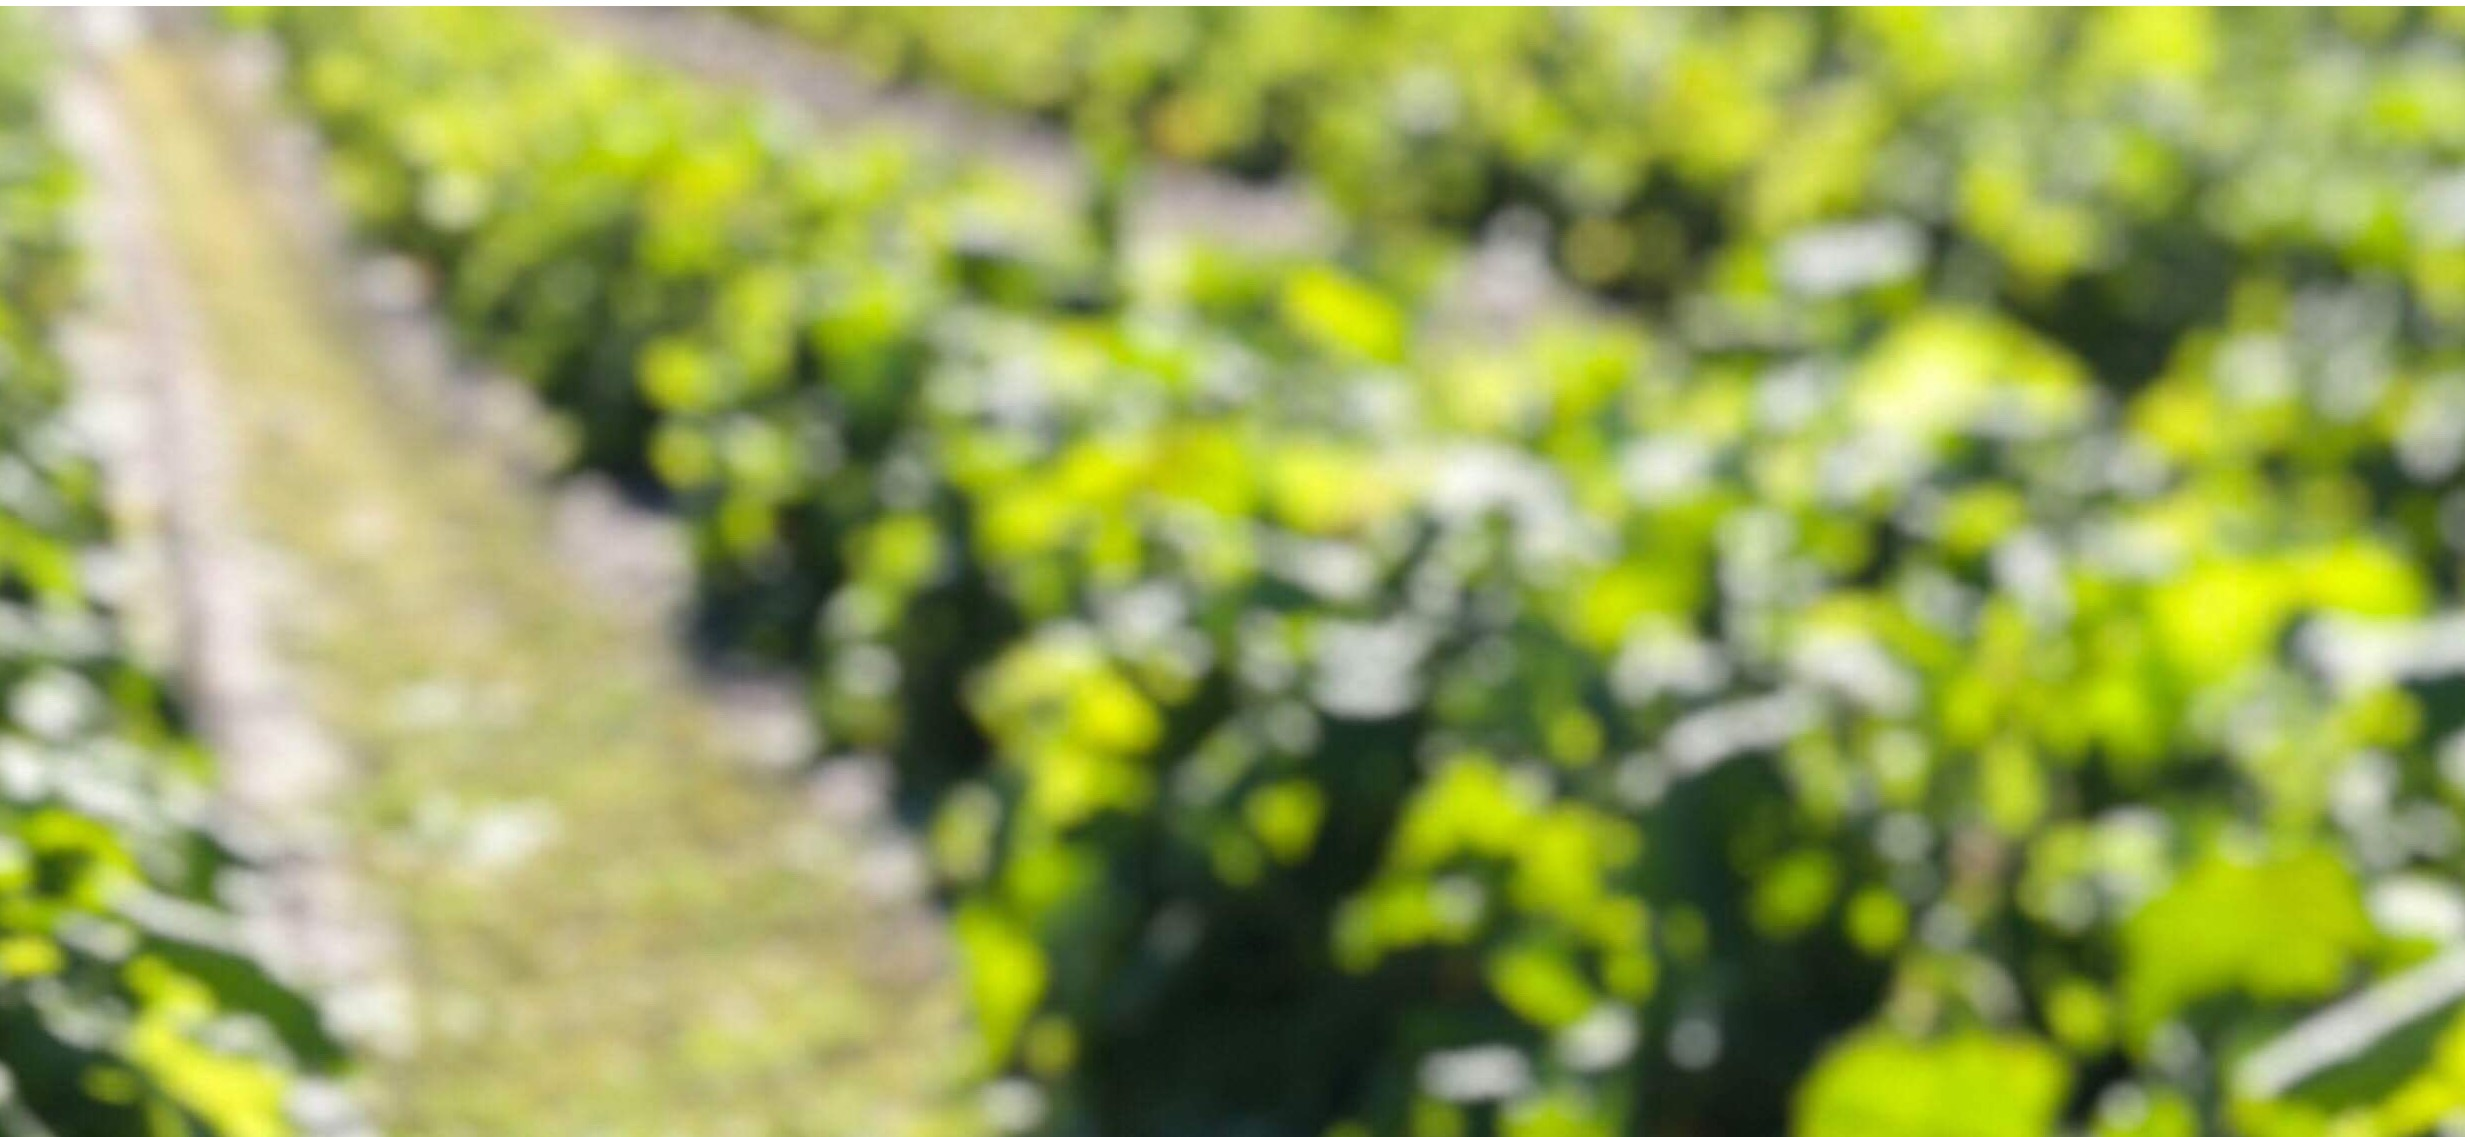
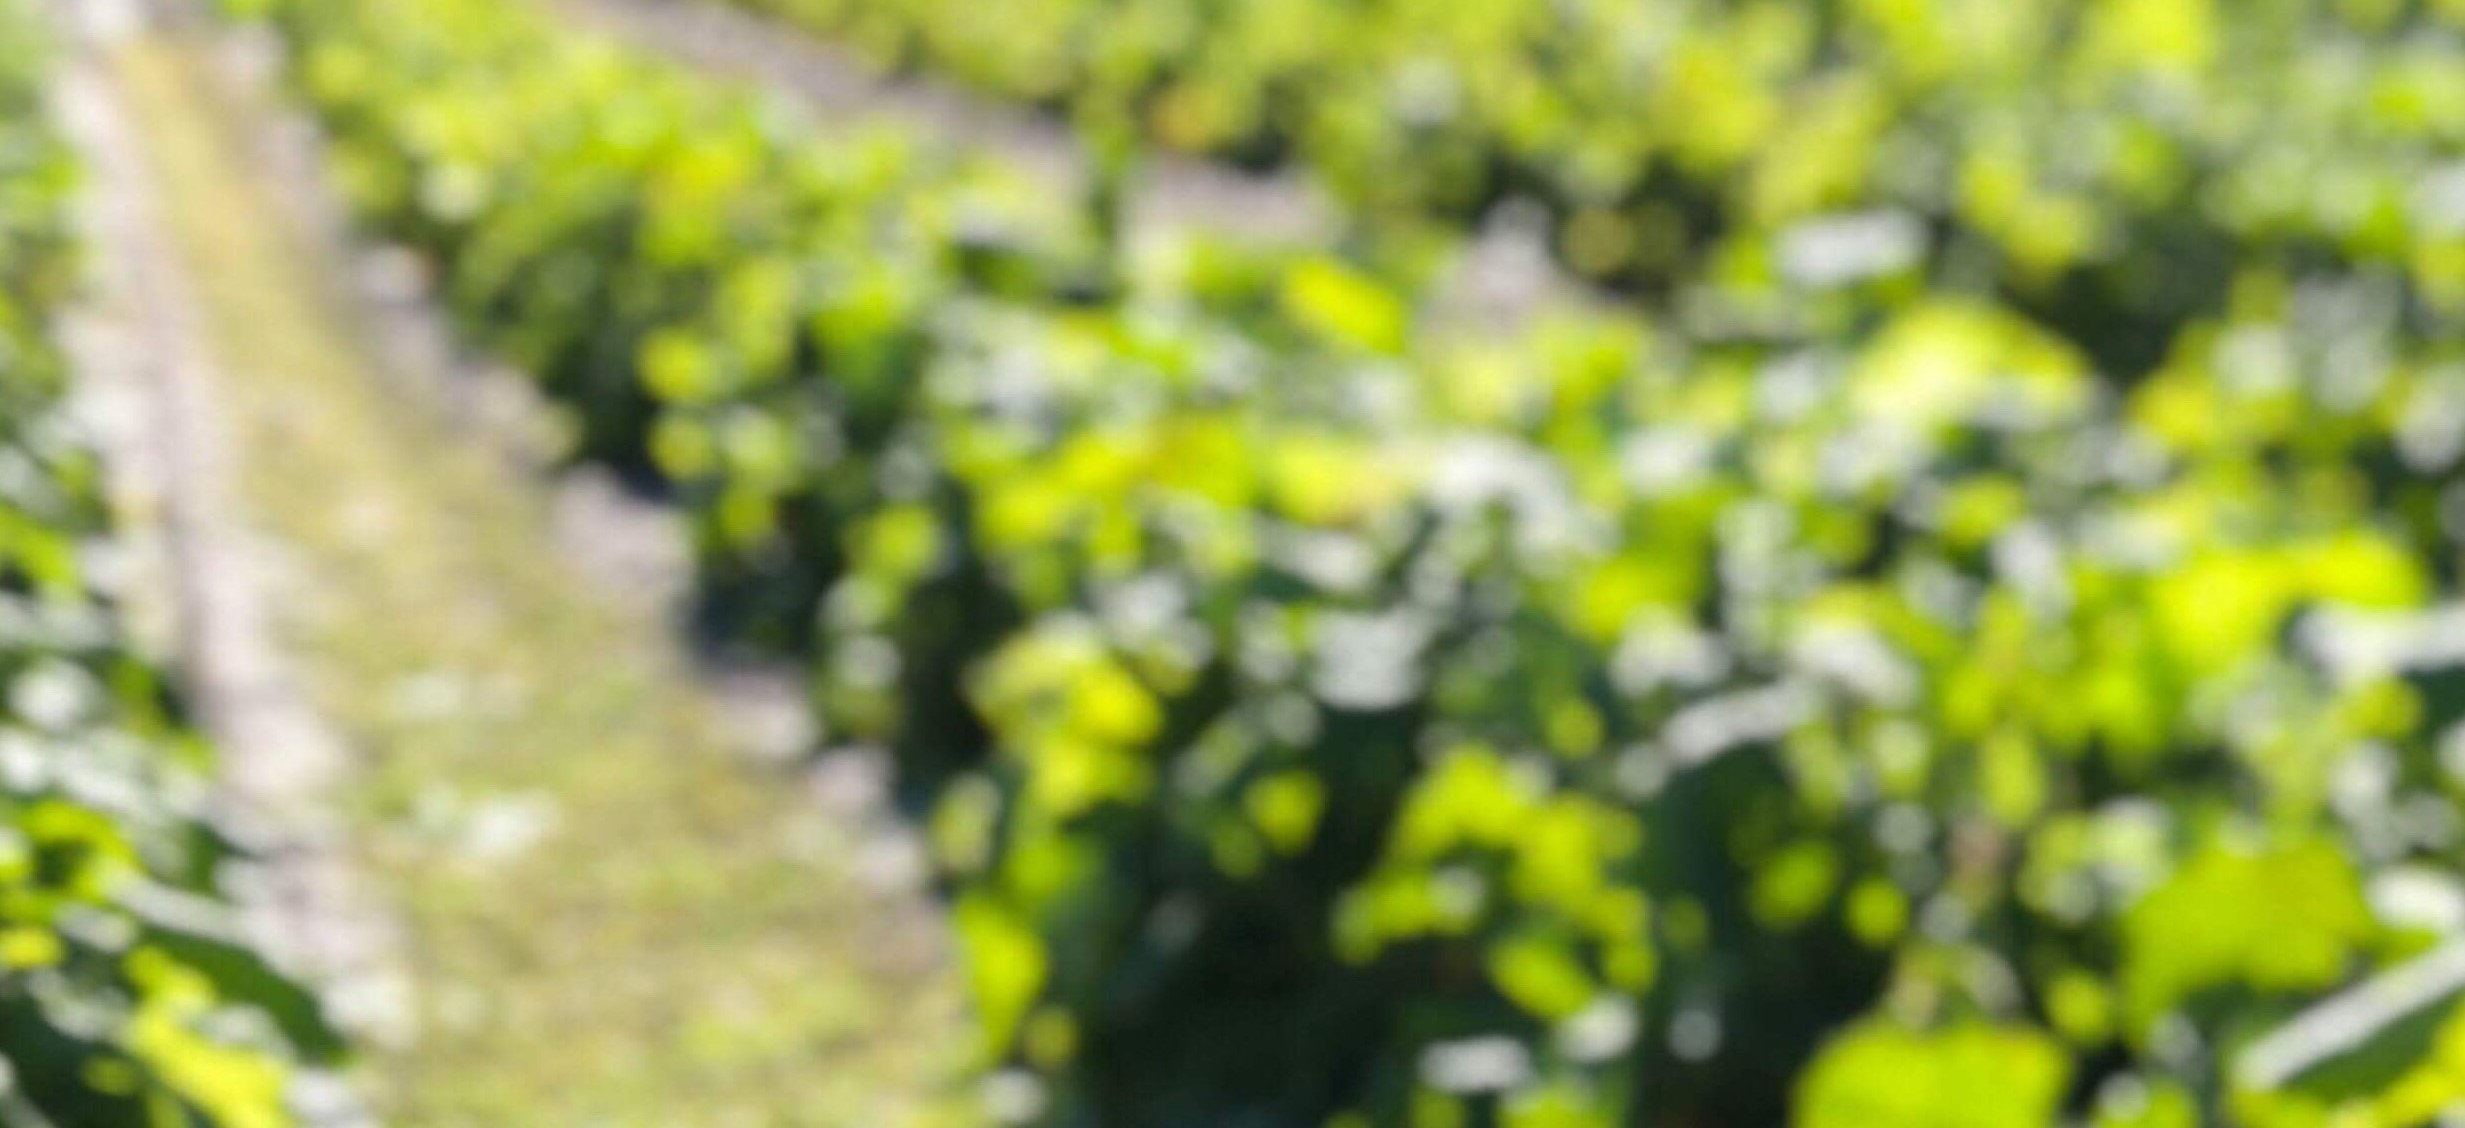
background images scroll

diff --git a/css/style.css b/css/style.css
@@ -6,47 +6,67 @@ body {
     margin: 0;
     font-family: 'Lato', sans-serif;
     font-size: 17px;
+    position: relative;
 }
 
-#fall::after {
-    background-image: url(../images/fallback.jpg);
-    content: "";
-    opacity: 0.5;
-    top: 0;
-    left: 0;
-    bottom: 0;
-    right: 0;
+#fall:before {
+    content: ' ';
+    display: block;
     position: absolute;
-    z-index: -1;
-    background-repeat: repeat;
-    
-}
-
-#spring::after {
-    background-image: url(../images/peas2.JPG);
-    content: "";
-    opacity: 0.3;
-    top: 0;
     left: 0;
-    bottom: 0;
-    right: 0;
-    position: absolute;
-    z-index: -1;
-    background-repeat: repeat;
-}
-
-#eggs::after {
-    background-image: url(../images/eggsback.jpg);
-    content: "";
-    opacity: 0.5;
     top: 0;
-    left: 0;
-    bottom: 0;
-    right: 0;
     width: 100%;
-    position: absolute;
+    height: 100%;
     z-index: -1;
-    background-repeat: repeat;
+    opacity: 0.5;
+    background-image: url(../images/fallback.jpg);
+    background-repeat: no-repeat;
+    background-position: 50% 0;
+    -ms-background-size: cover;
+    -o-background-size: cover;
+    -moz-background-size: cover;
+    -webkit-background-size: cover;
+    background-size: cover;
+}
+
+#spring:before {
+    content: ' ';
+    display: block;
+    position: absolute;
+    left: 0;
+    top: 0;
+    width: 100%;
+    height: 100%;
+    z-index: -1;
+    opacity: 0.5;
+    background-image: url(../images/peas2.JPG);
+    background-repeat: no-repeat;
+    background-position: 50% 0;
+    -ms-background-size: cover;
+    -o-background-size: cover;
+    -moz-background-size: cover;
+    -webkit-background-size: cover;
+    background-size: cover;
+}
+
+#eggs:before {
+    content: ' ';
+    display: block;
+    position: absolute;
+    left: 0;
+    top: 0;
+    width: 100%;
+    height: 100%;
+    z-index: -1;
+    opacity: 0.5;
+    background-image: url(../images/eggsback.jpg);
+    background-repeat: no-repeat;
+    background-position: 50% 0;
+    -ms-background-size: cover;
+    -o-background-size: cover;
+    -moz-background-size: cover;
+    -webkit-background-size: cover;
+    background-size: cover;
 }
 
 nav {
@@ -58,6 +78,7 @@ nav {
 nav ul a {
     font-size: 1.1rem;
 }
+
 li {
 
     line-height: 125px;
